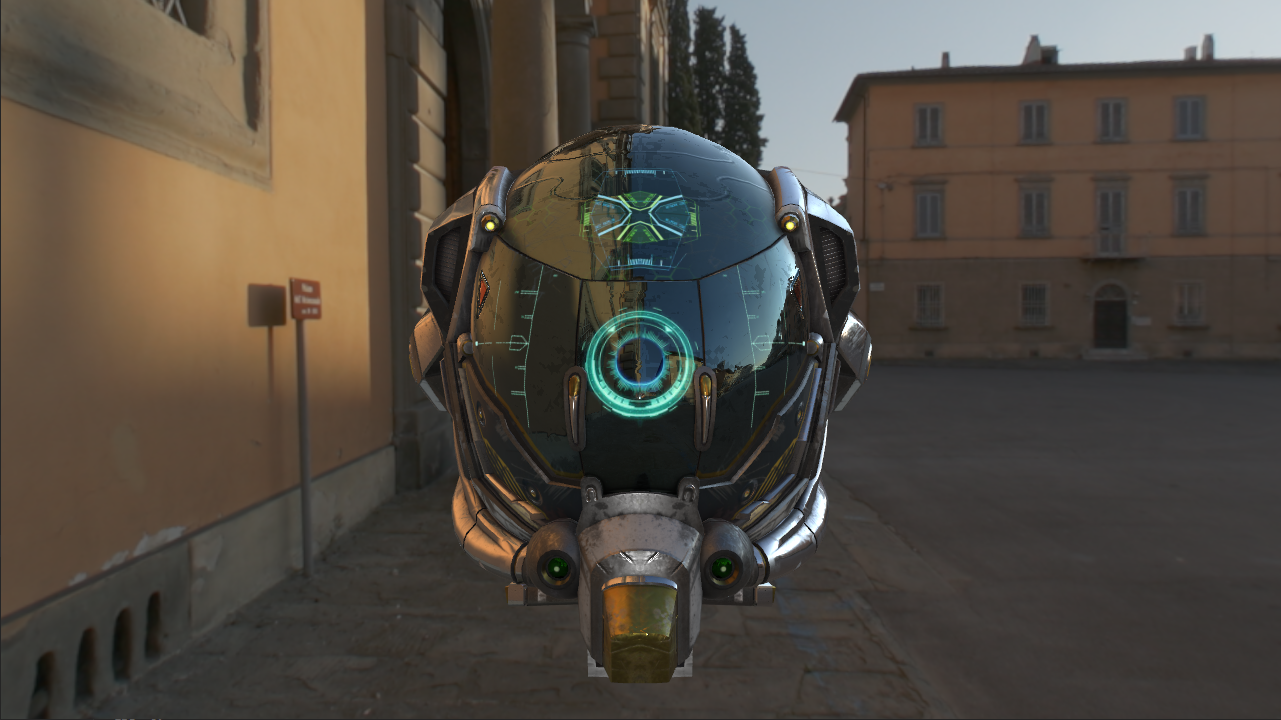
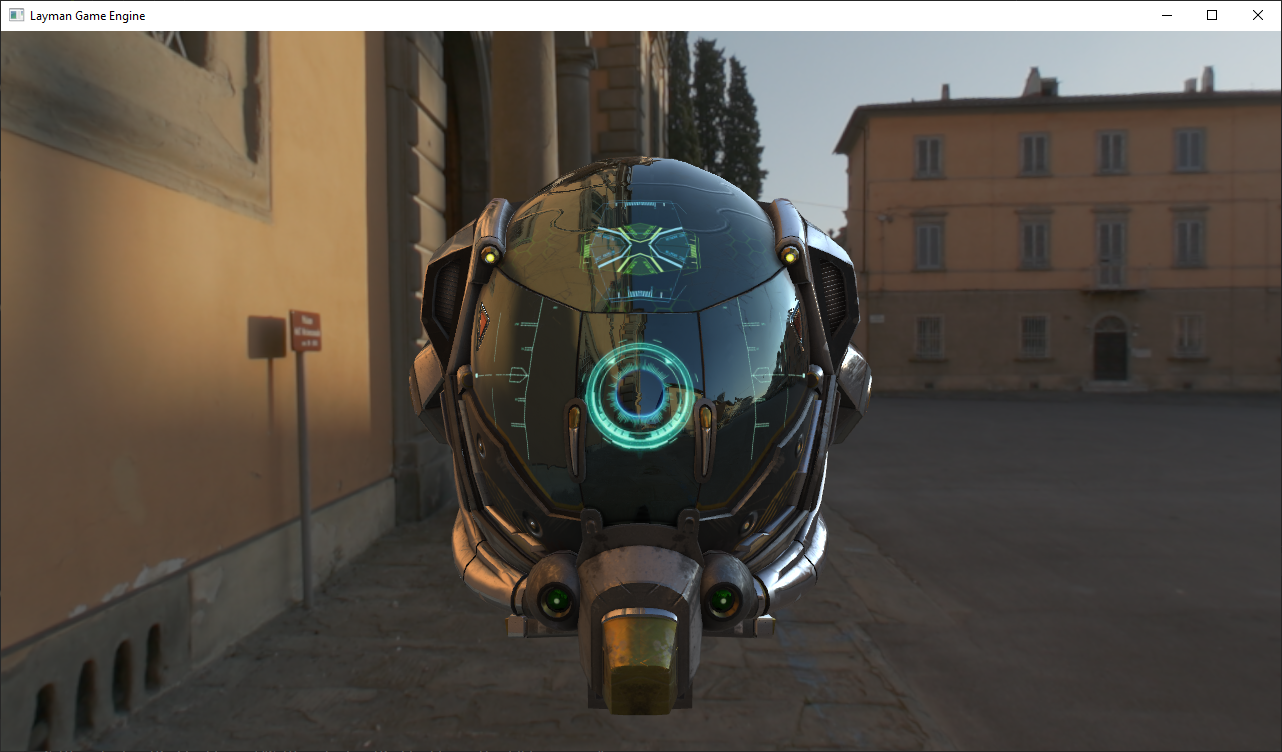
Working on rotation gizmo; updated screenshot.

diff --git a/src/gizmo.c b/src/gizmo.c
@@ -1,39 +1,6 @@
 #include "cimgui.h"
 #include "client.h"
 
-static float closest_distance_between_two_rays(vec3 r1_origin, vec3 r1_direction, vec3 r2_origin, vec3 r2_direction, float *d1, float *d2) {
-	vec3 dp;
-	glm_vec3_sub(r2_origin, r1_origin, dp);
-
-	float v12 = glm_vec3_dot(r1_direction, r1_direction);
-	float v22 = glm_vec3_dot(r2_direction, r2_direction);
-	float v1v2 = glm_vec3_dot(r1_direction, r2_direction);
-
-	float det = v1v2 * v1v2 - v12 * v22;
-
-	if (fabs(det) > FLT_MIN) {
-		float inv_det = 1.f / det;
-
-		float dpv1 = glm_vec3_dot(dp, r1_direction);
-		float dpv2 = glm_vec3_dot(dp, r2_direction);
-
-		// FIXME: I had to invert their signs, not sure why.
-		float t1 = -1 * inv_det * (v22 * dpv1 - v1v2 * dpv2);
-		float t2 = -1 * inv_det * (v1v2 * dpv1 - v12 * dpv2);
-
-		*d1 = t1;
-		*d2 = t2;
-
-		glm_vec3_muladds(r2_direction, t2, dp);
-		glm_vec3_muladds(r1_direction, -t1, dp);
-		return glm_vec3_norm(dp);
-	} else {
-		vec3 a;
-		glm_vec3_cross(dp, r1_direction, a);
-		return sqrt(glm_vec3_dot(a, a) / v12);
-	}
-}
-
 void gizmo_init(struct gizmo *gizmo) {
 	gizmo->mode = GIZMO_MODE_NONE;
 }
@@ -69,7 +36,7 @@ static void gizmo_render_translation(struct gizmo *gizmo) {
 		glm_vec3_zero(r2_direction);
 		r2_direction[axis] = 1;
 
-		float distance = closest_distance_between_two_rays(r1_origin, r1_direction, r2_origin, r2_direction, &t1, &t2);
+		float distance = utils_closest_distance_between_two_rays(r1_origin, r1_direction, r2_origin, r2_direction, &t1, &t2);
 
 		vec3 line_start = GLM_VEC3_ZERO_INIT;
 		vec3 line_end;
@@ -137,6 +104,57 @@ static void gizmo_render_translation(struct gizmo *gizmo) {
 	}
 }
 
+static void gizmo_render_rotation(struct gizmo *gizmo) {
+	struct entity *entity = find_selected_entity();
+
+	for (size_t axis = 0; axis < 3; axis++) {
+		vec3 circle_origin = {0};
+		glm_vec3_copy(entity->translation, circle_origin);
+
+		vec3 circle_orientation = {0};
+
+		circle_orientation[axis] = 1;
+
+		float circle_radius = 1;
+
+		vec3 closest = {0};
+
+		mat4 transform = GLM_MAT4_IDENTITY_INIT;
+
+		glm_translate(transform, entity->translation);
+		glm_quat_rotate(transform, entity->rotation, transform);
+		switch (axis) {
+		    case 0:
+			    glm_rotate_y(transform, circle_orientation[0] * M_PI_2, transform);
+			    break;
+		    case 1: glm_rotate_x(transform, circle_orientation[1] * M_PI_2, transform); break;
+		    case 2: glm_rotate_z(transform, circle_orientation[2] * M_PI_2, transform); break;
+		}
+
+		vec4 color = {circle_orientation[0], circle_orientation[1], circle_orientation[2], 1};
+
+		mat4 t = GLM_MAT4_IDENTITY_INIT;
+		glm_quat_rotate(t, entity->rotation, t);
+		glm_vec3_rotate_m4(t, circle_orientation, circle_orientation);
+
+		float distance = utils_closest_distance_between_ray_and_circle(
+				client.window.cursor_ray_origin,
+				client.window.cursor_ray_direction,
+				circle_origin,
+				circle_orientation,
+				circle_radius,
+				closest);
+
+		bool proximity = distance < 0.1 && distance >= 0;
+
+		if (proximity) {
+			glm_vec4_copy((vec4) { 1, 1, 0, 1}, color);
+		}
+
+		utils_render_ngon(64, circle_radius, transform, color);
+	}
+}
+
 void gizmo_render(struct gizmo *gizmo) {
 	// Don't draw any gizmo if no entity is selected.
 	if (!client.ui.selected_entity_id) {
@@ -151,6 +169,7 @@ void gizmo_render(struct gizmo *gizmo) {
 
 	switch (gizmo->mode) {
 	    case GIZMO_MODE_TRANSLATION: gizmo_render_translation(gizmo); return;
+	    case GIZMO_MODE_ROTATION: gizmo_render_rotation(gizmo); return;
 	    default: return;
 	}
 }

diff --git a/src/utils.c b/src/utils.c
@@ -1,5 +1,79 @@
 #include "client.h"
 
+float utils_closest_distance_between_ray_and_circle(vec3 ray_origin, vec3 ray_direction, vec3 circle_origin, vec3 circle_orientation, float circle_radius, vec3 closest) {
+	vec3 plane_origin, plane_orientation;
+	glm_vec3_copy(circle_origin, plane_origin);
+	glm_vec3_copy(circle_orientation, plane_orientation);
+
+	float t;
+
+	if (utils_ray_plane_intersection(plane_origin, plane_orientation, ray_origin, ray_direction, &t)) {
+		// Find the ray intersection point on the plane that contains the circle.
+		vec3 on_plane;
+		glm_vec3_copy(ray_origin, on_plane);
+		glm_vec3_muladds(ray_direction, t, on_plane);
+
+		// Project that intersection on to the circle's circumference.
+		glm_vec3_sub(on_plane, circle_origin, closest);
+		glm_normalize(closest);
+		glm_vec3_mul(closest, (vec3) { circle_radius, circle_radius, circle_radius}, closest);
+		glm_vec3_add(closest, circle_origin, closest);
+
+		vec3 tmp;
+		glm_vec3_sub(on_plane, closest, tmp);
+		return glm_vec3_norm(tmp);
+	}
+
+	return -1;
+}
+
+bool utils_ray_plane_intersection(vec3 plane_origin, vec3 plane_normal, vec3 ray_origin, vec3 ray_direction, float *t) {
+	float denom = glm_dot(plane_normal, ray_direction);
+
+	if (fabs(denom) > 0.000001) {
+		vec3 between;
+		glm_vec3_sub(plane_origin, ray_origin, between);
+		float result = glm_dot(between, plane_normal) / denom;
+		*t = result;
+		return result >= 0;
+	}
+
+	return false;
+}
+
+float utils_closest_distance_between_two_rays(vec3 r1_origin, vec3 r1_direction, vec3 r2_origin, vec3 r2_direction, float *d1, float *d2) {
+	vec3 dp;
+	glm_vec3_sub(r2_origin, r1_origin, dp);
+
+	float v12 = glm_vec3_dot(r1_direction, r1_direction);
+	float v22 = glm_vec3_dot(r2_direction, r2_direction);
+	float v1v2 = glm_vec3_dot(r1_direction, r2_direction);
+
+	float det = v1v2 * v1v2 - v12 * v22;
+
+	if (fabs(det) > FLT_MIN) {
+		float inv_det = 1.f / det;
+
+		float dpv1 = glm_vec3_dot(dp, r1_direction);
+		float dpv2 = glm_vec3_dot(dp, r2_direction);
+
+		// FIXME: I had to invert their signs, not sure why.
+		float t1 = -1 * inv_det * (v22 * dpv1 - v1v2 * dpv2);
+		float t2 = -1 * inv_det * (v1v2 * dpv1 - v12 * dpv2);
+
+		*d1 = t1;
+		*d2 = t2;
+
+		glm_vec3_muladds(r2_direction, t2, dp);
+		glm_vec3_muladds(r1_direction, -t1, dp);
+		return glm_vec3_norm(dp);
+	} else {
+		vec3 a;
+		glm_vec3_cross(dp, r1_direction, a);
+		return sqrt(glm_vec3_dot(a, a) / v12);
+	}
+}
+
 void utils_render_cube(void) {
 	static GLuint cubeVAO, cubeVBO;
 
@@ -69,7 +143,7 @@ void utils_render_cube(void) {
 	glDrawArrays(GL_TRIANGLES, 0, 36);
 }
 
-void utils_render_ngon(vec3 origin, int n, float radius, mat4 transform, vec4 color) {
+void utils_render_ngon(int n, float radius, mat4 transform, vec4 color) {
 	float theta = (M_PI * 2) / (float) n;
 
 	for (int i = 0; i < n; i++) {

diff --git a/include/utils.h b/include/utils.h
@@ -18,7 +18,10 @@
 
 void utils_render_cube(void);
 void utils_render_line(vec3 from, vec3 to, mat4 transform, vec4 color);
-void utils_render_ngon(vec3 origin, int n, float radius, mat4 transform, vec4 color);
+void utils_render_ngon(int n, float radius, mat4 transform, vec4 color);
+float utils_closest_distance_between_two_rays(vec3 r1_origin, vec3 r1_direction, vec3 r2_origin, vec3 r2_direction, float *d1, float *d2);
+float utils_closest_distance_between_ray_and_circle(vec3 ray_origin, vec3 ray_direction, vec3 circle_origin, vec3 circle_orientation, float circle_radius, vec3 closest);
+bool utils_ray_plane_intersection(vec3 plane_origin, vec3 plane_normal, vec3 ray_origin, vec3 ray_direction, float *t);
 struct entity *find_selected_entity(void);
 
 #endif
